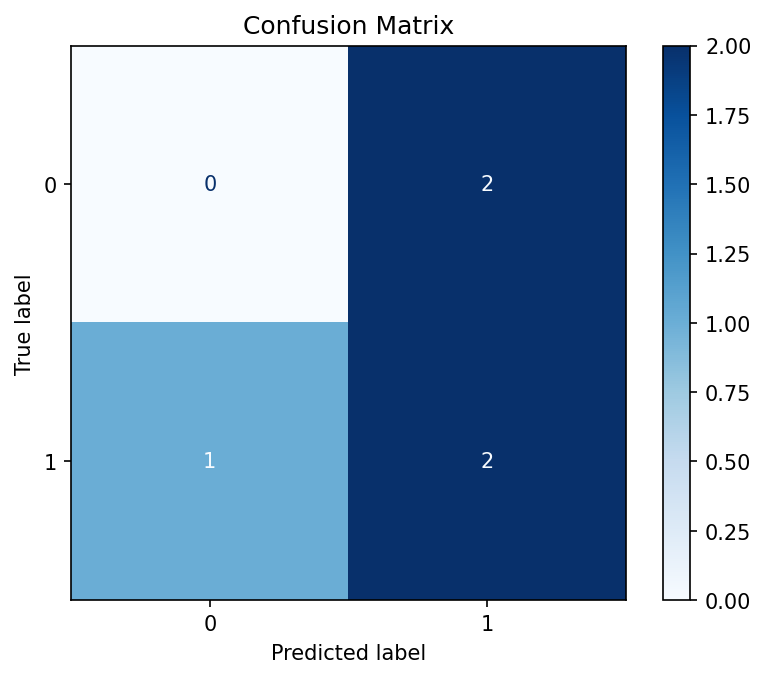
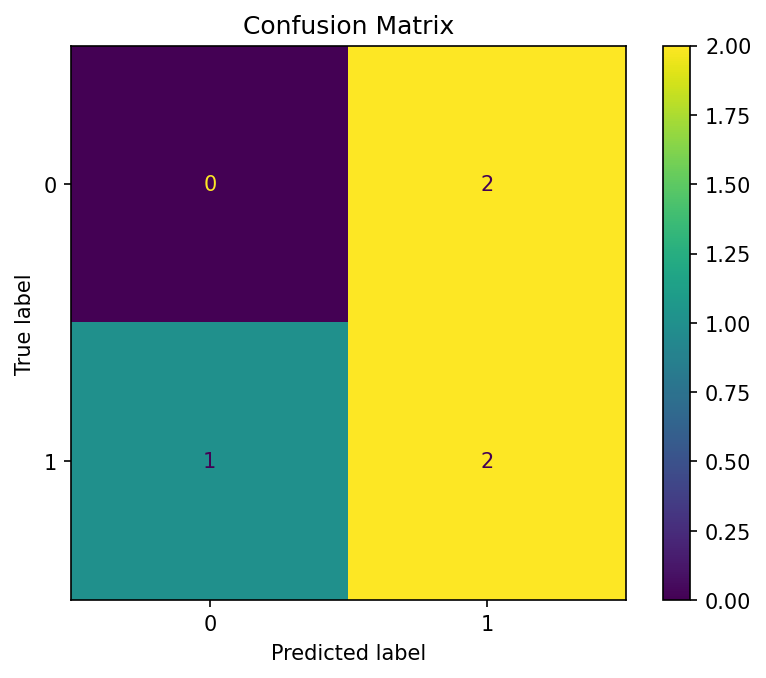
chore: code cleanup and final rerurns

diff --git a/diagnostics.py b/diagnostics.py
@@ -6,7 +6,6 @@ import subprocess
 import sys
 import timeit
 
-import numpy as np
 import pandas as pd
 
 from ingestion import merge_multiple_dataframe
@@ -17,10 +16,10 @@ with open("config.json", "r") as f:
     config = json.load(f)
 
 dataset_csv_path = os.path.join(config["output_folder_path"])
-test_data_path = os.path.join(config["test_data_path"], "testdata.csv")
+test_data_path = os.path.join(config["test_data_path"])
 production_path = os.path.join(config["prod_deployment_path"])
 
-
+# regex catching newest version of package from pip response
 pattern = re.compile(r"^\S+\s+\(([^)]+)\)")
 
 
@@ -30,7 +29,9 @@ def model_predictions(dataframe: pd.DataFrame):
     # and predict for the supplied DataFrame.
     # Select the same predictor columns used for training;
     # do not include the target.
-    model = pickle.load(open(os.path.join(production_path, "trainedmodel.pkl"), "rb"))  # noqa: E501
+    with open(production_path + "/trainedmodel.pkl", "rb") as f:
+        model = pickle.load(f)
+
     drop_cols = [
         col
         for col in dataframe.columns
@@ -50,7 +51,7 @@ def model_predictions(dataframe: pd.DataFrame):
 def dataframe_summary():
     # Read the ingested dataset from output_folder_path.
     # For each numeric column, calculate mean, median, and standard deviation.
-    df = pd.read_csv(os.path.join(dataset_csv_path, "finaldata.csv"))
+    df = pd.read_csv(dataset_csv_path + "/finaldata.csv")
 
     return [
         df.mean(numeric_only=True).to_list(),
@@ -63,7 +64,7 @@ def dataframe_summary():
 def missing_data():
     # Calculate missing-value percentages for every ingested dataset column,
     # including nonnumeric columns, and return a list in column order.
-    df = pd.read_csv(os.path.join(dataset_csv_path, "finaldata.csv"))
+    df = pd.read_csv(dataset_csv_path + "/finaldata.csv")
 
     return df.isna().mean() * 100
 
@@ -74,12 +75,15 @@ def execution_time():
     # and the rubric. Isolate timing outputs;
     # do not replace the deployed model.
     result = []
+
     start = timeit.default_timer()
     merge_multiple_dataframe()
     result.append(timeit.default_timer() - start)
+
     start = timeit.default_timer()
     train_model()
     result.append(timeit.default_timer() - start)
+
     return result
 
 
@@ -112,18 +116,20 @@ def outdated_packages_list():
                 )
                 re_match = pattern.match(result.stdout.strip())
                 version = re_match.group(1) if re_match else "NA"
-            except (subprocess.SubprocessError, OSError) as e:
-                print(e)
+            except (subprocess.SubprocessError, OSError):
                 version = "NA"
 
             packages.append((line_split[0], line_split[1], version))
-    return pd.DataFrame(packages, columns=["package", "current", "latest"])
+
+    final_df = pd.DataFrame(packages, columns=["package", "current", "latest"])
+
+    return final_df.to_dict(orient="records")
 
 
 if __name__ == "__main__":
     # Load test_data_path/testdata.csv into a DataFrame
     # and pass it to model_predictions.
-    df = pd.read_csv(test_data_path)
+    df = pd.read_csv(test_data_path + "/testdata.csv")
     model_predictions(df)
     dataframe_summary()
     missing_data()

diff --git a/deployment.py b/deployment.py
@@ -1,13 +1,5 @@
 import json
 import os
-import pickle
-
-import numpy as np
-import pandas as pd
-from flask import Flask, jsonify, request, session
-from sklearn import metrics
-from sklearn.linear_model import LogisticRegression
-from sklearn.model_selection import train_test_split
 
 # Load config.json and correct path variable
 with open("config.json", "r") as f:
@@ -18,32 +10,21 @@ ingested_dir_path = os.path.join(config["output_folder_path"])
 prod_deployment_path = os.path.join(config["prod_deployment_path"])
 
 
-# Function for deployment
-def store_model_into_pickle(model):
-    # Copy the latest pickle file, the latestscore.txt value,
-    # and the ingestedfiles.txt file into the deployment directory.
-    # The score must describe the model being copied, not an earlier model.
-    pass
+def deploy_files():
+    """Changed method name to more fitting."""
 
-
-def deploy_files(latestscore=None, model=None, ingestedfiles=None):
-
-    if not latestscore:
-        latestscore = os.path.join(output_dir_path, "latestscore.txt")
-    if not model:
-        model = os.path.join(output_dir_path, "trainedmodel.pkl")
-    if not ingestedfiles:
-        ingestedfiles = os.path.join(ingested_dir_path, "ingestedfiles.txt")
-
-    dest_mapping = {
-        os.path.join(prod_deployment_path, "ingestedfiles.txt"): ingestedfiles,
-        os.path.join(prod_deployment_path, "trainedmodel.pkl"): model,
-        os.path.join(prod_deployment_path, "latestscore.txt"): latestscore,
+    source_file_map = {
+        "ingestedfiles.txt": ingested_dir_path,
+        "trainedmodel.pkl": output_dir_path,
+        "latestscore.txt": output_dir_path,
     }
 
-    for dest, src in dest_mapping.items():
-        with open(src, "rb") as src_file, open(dest, "wb") as dest_file:
-            dest_file.write(src_file.read())
+    for file_name, dir_path in source_file_map.items():
+        with (
+            open(f"{dir_path}/{file_name}", "rb") as src,
+            open(f"{prod_deployment_path}/{file_name}", "wb") as dest,
+        ):
+            dest.write(src.read())
 
 
 if __name__ == "__main__":

diff --git a/reporting.py b/reporting.py
@@ -3,36 +3,35 @@ import os
 import pickle
 
 import matplotlib.pyplot as plt
-import numpy as np
 import pandas as pd
-import seaborn as sns
 from sklearn import metrics
-from sklearn.model_selection import train_test_split
 
 # Load config.json and get path variables
 with open("config.json", "r") as f:
     config = json.load(f)
 
-dataset_csv_path = os.path.join(config["test_data_path"], "testdata.csv")
-model_path = os.path.join(config["output_model_path"], "trainedmodel.pkl")
-matrix_path = os.path.join(config["output_model_path"])
+dataset_csv_path = os.path.join(config["test_data_path"])
+model_path = os.path.join(config["output_model_path"])
 
 
 # Function for reporting
 def score_model(matrix_name="confusionmatrix.png"):
     # Calculate a confusion matrix using the test data and the deployed model
     # and write the confusion matrix to the workspace
-    model = pickle.load(open(model_path, "rb"))
-    df = pd.read_csv(dataset_csv_path)
+    with open(model_path + "/trainedmodel.pkl", "rb") as f:
+        model = pickle.load(f)
+
+    df = pd.read_csv(dataset_csv_path + "/testdata.csv")
     X = df.drop(columns=["corporation", "exited"]).values.reshape(-1, 3)
     y_true = df["exited"].values.reshape(-1, 1)
+
     preds = model.predict(X)
 
     disp = metrics.ConfusionMatrixDisplay.from_predictions(
-        y_true, preds, labels=[0, 1], display_labels=[0, 1], cmap="Blues"
+        y_true, preds, labels=[0, 1], display_labels=[0, 1]
     )
     disp.ax_.set_title("Confusion Matrix")
-    plt.savefig(os.path.join(matrix_path, matrix_name), dpi=150, bbox_inches="tight")
+    plt.savefig(f"{model_path}/{matrix_name}", dpi=150, bbox_inches="tight")
 
 
 if __name__ == "__main__":

diff --git a/app.py b/app.py
@@ -2,9 +2,8 @@ import json
 import os
 import pickle
 
-import numpy as np
 import pandas as pd
-from flask import Flask, jsonify, request, session
+from flask import Flask, jsonify, request
 
 from diagnostics import (
     dataframe_summary,
@@ -23,10 +22,11 @@ with open("config.json", "r") as f:
     config = json.load(f)
 
 dataset_csv_path = os.path.join(config["output_folder_path"])
-test_dataset_csv_path = os.path.join(config["test_data_path"], "testdata.csv")
-model_path = os.path.join(config["prod_deployment_path"], "trainedmodel.pkl")
+test_dataset_csv_path = os.path.join(config["test_data_path"])
+model_path = os.path.join(config["prod_deployment_path"])
 
-prediction_model = None
+with open(model_path + "/trainedmodel.pkl", "rb") as model_file:
+    prediction_model = pickle.load(model_file)
 
 
 # Prediction Endpoint
@@ -47,10 +47,10 @@ def scoring_endpoint():
     # Score the deployed model
     # on test_data_path/testdata.csv using score_model.
     # Do not overwrite the deployed baseline score.
-    model = pickle.load(open(model_path, "rb"))
-    df = pd.read_csv(test_dataset_csv_path)
 
-    return jsonify(score_model(model, df))
+    df = pd.read_csv(test_dataset_csv_path + "/testdata.csv")
+
+    return jsonify(score_model(prediction_model, df))
 
 
 # Summary Statistics Endpoint
@@ -70,7 +70,7 @@ def diagnostics_endpoint():
         {
             "missing_data": missing_data().to_list(),
             "timings": execution_time(),
-            "outdated_packages": outdated_packages_list().to_dict(orient="records"),  # noqa: E501
+            "outdated_packages": outdated_packages_list(),
         }
     )
 

diff --git a/training.py b/training.py
@@ -2,24 +2,20 @@ import json
 import os
 import pickle
 
-import numpy as np
 import pandas as pd
-from flask import Flask, jsonify, request, session
-from sklearn import metrics
 from sklearn.linear_model import LogisticRegression
-from sklearn.model_selection import train_test_split
 
 # Load config.json and get path variables
 with open("config.json", "r") as f:
     config = json.load(f)
 
-dataset_csv_path = os.path.join(config["output_folder_path"], "finaldata.csv")
-model_path = os.path.join(config["output_model_path"], "trainedmodel.pkl")
+dataset_csv_path = os.path.join(config["output_folder_path"])
+model_path = os.path.join(config["output_model_path"])
 
 
 # Function for training the model
 def train_model():
-    dataset = pd.read_csv(dataset_csv_path)
+    dataset = pd.read_csv(dataset_csv_path + "/finaldata.csv")
     X = dataset.loc[
         :,
         [
@@ -29,9 +25,6 @@ def train_model():
         ],
     ].values.reshape(-1, 3)
     y = dataset["exited"].values.reshape(-1, 1).ravel()
-    X_train, X_test, y_train, y_test = train_test_split(
-        X, y, test_size=0.3, random_state=42
-    )
 
     # use this logistic regression for training
     logit = LogisticRegression(
@@ -52,11 +45,12 @@ def train_model():
     )
 
     # Fit the logistic regression to your data
-    model = logit.fit(X_train, y_train)
+    model = logit.fit(X, y)
 
     # Write the trained model to your
     # workspace in a file called trainedmodel.pkl
-    pickle.dump(model, open(model_path, "wb"))
+    with open(model_path + "/trainedmodel.pkl", "wb") as f:
+        pickle.dump(model, f)
 
 
 if __name__ == "__main__":

diff --git a/scoring.py b/scoring.py
@@ -2,12 +2,8 @@ import json
 import os
 import pickle
 
-import numpy as np
 import pandas as pd
-from flask import Flask, jsonify, request, session
 from sklearn import metrics
-from sklearn.linear_model import LogisticRegression
-from sklearn.model_selection import train_test_split
 
 # Load config.json and get path variables
 with open("config.json", "r") as f:
@@ -15,8 +11,8 @@ with open("config.json", "r") as f:
 
 dataset_csv_path = os.path.join(config["output_folder_path"])
 test_data_path = os.path.join(config["test_data_path"])
-model_path = os.path.join(config["output_model_path"], "trainedmodel.pkl")
-output_score_path = os.path.join(config["output_model_path"], "latestscore.txt")
+model_path = os.path.join(config["output_model_path"])
+output_score_path = os.path.join(config["output_model_path"])
 
 
 # Function for model scoring
@@ -55,7 +51,6 @@ if __name__ == "__main__":
             dfs.append(pd.read_csv(os.path.join(test_data_path, filename)))
     df = pd.concat(dfs, ignore_index=True)
     df = df.drop_duplicates()
-    model = pickle.load(
-        open(model_path, "rb")  # noqa: E501
-    )
-    print(score_model(model, df, output_score_path))
+    with open(model_path + "/trainedmodel.pkl", "rb") as f:
+        model = pickle.load(f)
+    print(score_model(model, df, output_score_path + "/latestscore.txt"))

diff --git a/apicalls.py b/apicalls.py
@@ -9,10 +9,10 @@ URL = "http://127.0.0.1:8000"
 with open("config.json", "r") as f:
     config = json.load(f)
 
-output_path = os.path.join(config["output_model_path"], "apireturns.txt")
+output_path = os.path.join(config["output_model_path"])
 
 
-def run_api_calls(result_path=output_path):
+def run_api_calls(result_filename="apireturns.txt"):
     # Call each API endpoint and store the responses
     # predict
     response1 = requests.post(
@@ -37,7 +37,7 @@ def run_api_calls(result_path=output_path):
     }
 
     # Write the responses to your workspace
-    with open(result_path, "w") as f:
+    with open(f"{output_path}/{result_filename}", "w") as f:
         json.dump(responses, f)
 
 

diff --git a/fullprocess.py b/fullprocess.py
@@ -6,7 +6,6 @@ import pandas as pd
 
 import apicalls
 import deployment
-import diagnostics
 import ingestion
 import reporting
 import scoring
@@ -90,4 +89,4 @@ if new_score < baseline:
 # timing and dependency results may vary.
 # Do not force retraining for new reports.
 reporting.score_model("confusionmatrix2.png")
-apicalls.run_api_calls(model_output_path + "/apireturns2.txt")
+apicalls.run_api_calls("apireturns2.txt")

diff --git a/ingestion.py b/ingestion.py
@@ -1,6 +1,5 @@
 import json
 import os
-from datetime import datetime
 
 import pandas as pd
 
